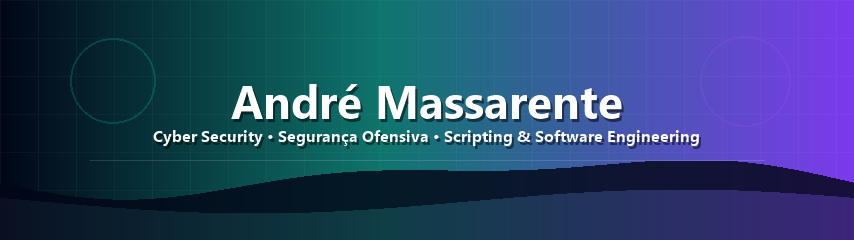
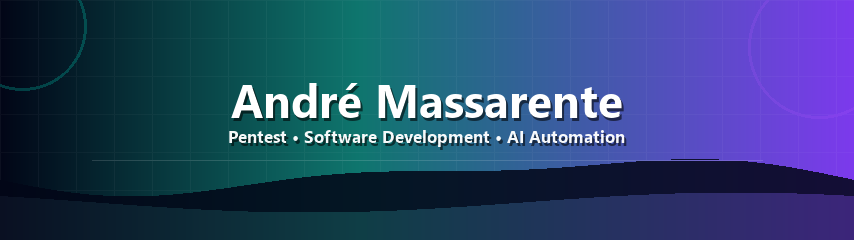
Redesign profile README in English for pentest development and AI

diff --git a/README.md b/README.md
@@ -1,77 +1,82 @@
 <div align="center">
 
-<img src="./assets/profile-banner.png" alt="André Massarente" />
+<img src="./assets/profile-banner.png" alt="André Massarente — Pentest, Software Development and AI Automation" />
 
 <img src="./assets/aws-cloud-practitioner.png" width="120" alt="AWS Certified Cloud Practitioner" />
 
 <br/>
 
-<img src="https://img.shields.io/badge/Cyber%20Security-020617?style=for-the-badge&logo=hackthebox&logoColor=00f5d4" alt="Cyber Security" />
-<img src="https://img.shields.io/badge/Seguran%C3%A7a%20Ofensiva-111827?style=for-the-badge&logo=kalilinux&logoColor=38bdf8" alt="Segurança Ofensiva" />
-<img src="https://img.shields.io/badge/Scripting%20%26%20Software%20Engineering-1e293b?style=for-the-badge&logo=gnometerminal&logoColor=facc15" alt="Scripting & Software Engineering" />
+<img src="https://img.shields.io/badge/Offensive%20Security-020617?style=for-the-badge&logo=hackthebox&logoColor=00f5d4" alt="Offensive Security" />
+<img src="https://img.shields.io/badge/Pentest-111827?style=for-the-badge&logo=kalilinux&logoColor=38bdf8" alt="Pentest" />
+<img src="https://img.shields.io/badge/Software%20Development-1e293b?style=for-the-badge&logo=gnometerminal&logoColor=facc15" alt="Software Development" />
+<img src="https://img.shields.io/badge/AI%20%26%20Automation-312e81?style=for-the-badge&logo=openai&logoColor=white" alt="AI & Automation" />
 
 <br/><br/>
 
 <a href="https://www.linkedin.com/in/andremassarente/">
   <img src="https://img.shields.io/badge/LinkedIn-Andr%C3%A9%20Massarente-0A66C2?style=for-the-badge&logo=linkedin&logoColor=white" alt="LinkedIn" />
 </a>
-<img src="https://img.shields.io/badge/S%C3%A3o%20Paulo-Brasil-16a34a?style=for-the-badge&logo=googlemaps&logoColor=white" alt="São Paulo, Brasil" />
+<img src="https://img.shields.io/badge/S%C3%A3o%20Paulo-Brazil-16a34a?style=for-the-badge&logo=googlemaps&logoColor=white" alt="São Paulo, Brazil" />
 
 </div>
 
 ---
 
-## 👾 Quem sou
+## 👾 About me
 
-Sou **André Massarente**, estudante de **Ciência da Computação** e profissional na área de **Cyber Security**, com foco em **Segurança Ofensiva**.
+I'm **André Massarente**, a **Computer Science student** and **Cyber Security professional** focused on **Offensive Security**, **pentest**, **software development**, **AI** and **automation**.
 
-Busco evoluir como **Analista Jr de Cyber Security** e futuro **pentester**, construindo uma base forte em segurança, programação, Linux, redes, automação e engenharia de software.
+I like building practical tools, automating repetitive workflows, breaking down how systems work, and turning technical learning into real projects.
 
 ```txt
 root@portfolio:~$ whoami
-cyber security • segurança ofensiva • pentest • scripting • linux • software engineering
+pentest • offensive security • software development • ai automation • linux
 ```
 
 ---
 
-## 🧨 Especialidades em evolução
+## 🧨 Core focus
 
 <table>
   <tr>
     <td width="50%" valign="top">
-      <h3>🛡 Segurança Ofensiva</h3>
-      <p>Pentest, reconhecimento, enumeração, OWASP, análise de superfície de ataque e mentalidade de exploração ética.</p>
+      <h3>🛡 Offensive Security</h3>
+      <p>Pentest methodology, reconnaissance, enumeration, OWASP, attack surface analysis and ethical exploitation mindset.</p>
     </td>
     <td width="50%" valign="top">
-      <h3>⚙ Scripting & Automação</h3>
-      <p>Python e Bash para criar ferramentas, automatizar tarefas repetitivas e transformar processos manuais em fluxos reproduzíveis.</p>
+      <h3>💻 Software Development</h3>
+      <p>Python, JavaScript/TypeScript, Java, APIs, clean structure, Git/GitHub workflows and maintainable project organization.</p>
     </td>
   </tr>
   <tr>
     <td width="50%" valign="top">
-      <h3>🐧 Linux & Redes</h3>
-      <p>Terminal, sistemas Linux, fundamentos de redes, troubleshooting, serviços, permissões e práticas de hardening.</p>
+      <h3>⚙ Scripting & Automation</h3>
+      <p>Python and Bash scripts to create tools, reduce manual work, collect data and build repeatable technical workflows.</p>
     </td>
     <td width="50%" valign="top">
-      <h3>💻 Software Engineering</h3>
-      <p>Desenvolvimento de aplicações, organização de código, Git/GitHub, APIs, documentação de projeto e boas práticas de manutenção.</p>
+      <h3>🤖 AI for Security & Productivity</h3>
+      <p>Using AI agents, prompts and automation to accelerate research, documentation, coding, analysis and personal infrastructure.</p>
     </td>
   </tr>
 </table>
 
 <div align="center">
 
-<img src="https://skillicons.dev/icons?i=python,bash,linux,kali,git,github,java,ts,js,flask" alt="Stack" />
+<img src="https://skillicons.dev/icons?i=python,bash,linux,kali,git,github,java,ts,js,flask,aws" alt="Tech stack" />
 
 </div>
 
 ---
 
-## 🎓 Certificações
+## 🎓 Certification
 
 <div align="center">
 
 <img src="./assets/aws-cloud-practitioner.png" width="135" alt="AWS Certified Cloud Practitioner" />
+
+<br/>
+
+**AWS Certified Cloud Practitioner**
 
 </div>
 
